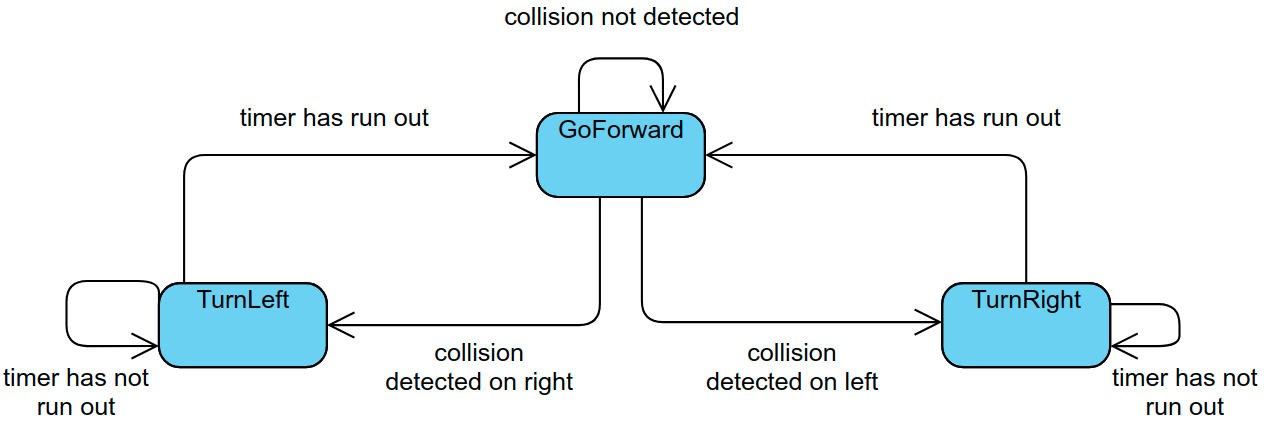
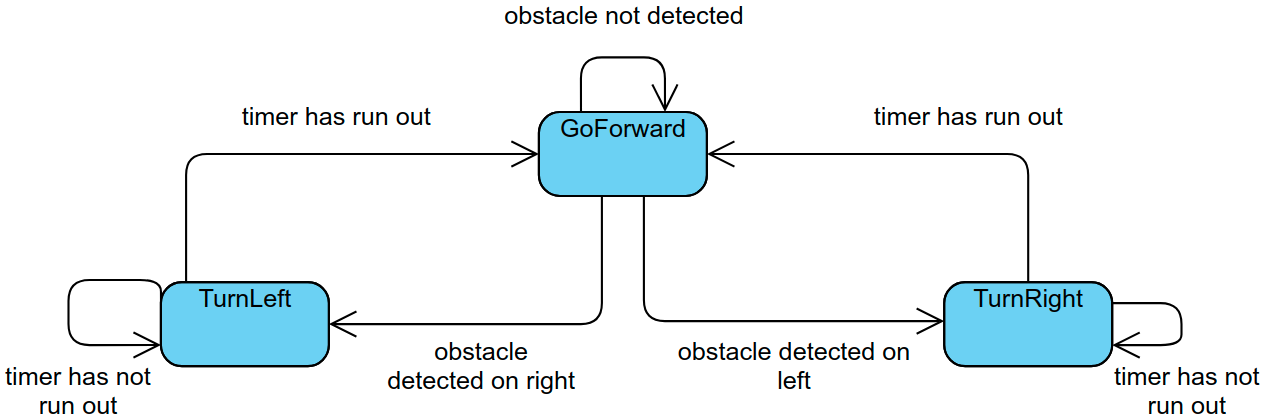
From laptop. 31/10/2021 12:51

diff --git a/proyect-1/index.html b/proyect-1/index.html
@@ -32,24 +32,43 @@
         </p>
 
         <img class="pure-img-responsive" src="images/diagrama_1.png" alt="diagram 1">
-        <p>
-          Then I realised that the methods to access the bumper state were
-          giving me problems, so I changed to the laser data. Since there
-          was no physical contact anymore, the GoBackward state was no
-          longer needed, so I removed it:
-        </p>
-
-        <img class="pure-img-responsive" src="images/diagrama_2.png" alt="diagram 2">
 
         <p>
           The timers are chosen randomly, and varying the range you can
           obtain different results. For example, at first I thought that
           the best way to do it was to set short timers, so that
-          the robot would stick to the walls. There were tho problems:
+          the robot would stick to the walls. There were two problems:
           First, the robot would get stuck in the corners. Another problem
           was that when it entered a room, it could not get out.
+          The following video shows the second problem:
         </p>
 
+        <iframe width="853" height="480" src="https://www.youtube.com/embed/eIt4OrfcW9U" title="YouTube video player" frameborder="0" allow="accelerometer; autoplay; clipboard-write; encrypted-media; gyroscope; picture-in-picture" allowfullscreen></iframe>
+
+        <p>
+          At that same time I realised that the methods to access the
+          bumper state were giving me problems, so I started using the
+          laser. Since there was no physical contact anymore,
+          the GoBackward state was no longer needed, so I removed it:
+        </p>
+
+        <img class="pure-img-responsive" src="images/diagrama_2.png" alt="diagram 2">
+
+        <p>
+          I also put larger ranges for the timers, and changed the
+          probability distribution, slightly favoring smaller
+          timers(i.e. smaller turns) to favor the current direction
+          of movement, without losing the possibility of making bigger turns.
+        </p>
+        <p>
+          By that time, I also added the DoSpiral state:
+        </p>
+
+        <img class="pure-img-responsive" src="images/diagrama_3.png" alt="diagram 2">
+
+        <p>
+          DoSpiral activates with a certain probability, currently at 1%.
+        </p>
 
   <div class="pure-g">
   <div class="pure-u-1-4">
@@ -66,10 +85,6 @@
   </div>
   </div>
 
-  <h2 class="content-subhead">Lorem ipsum</h2>
-  <p>
-  Lorem ipsum dolor sit amet, consectetur adipisicing elit, sed do eiusmod tempor incididunt ut labore et dolore magna aliqua. Ut enim ad minim veniam, quis nostrud exercitation ullamco laboris nisi ut aliquip ex ea commodo consequat. Duis aute irure dolor in reprehenderit in voluptate velit esse cillum dolore eu fugiat nulla pariatur. Excepteur sint occaecat cupidatat non proident, sunt in culpa qui officia deserunt mollit anim id est laborum.
-  </p>
   </div>
   </div>
   </div>
